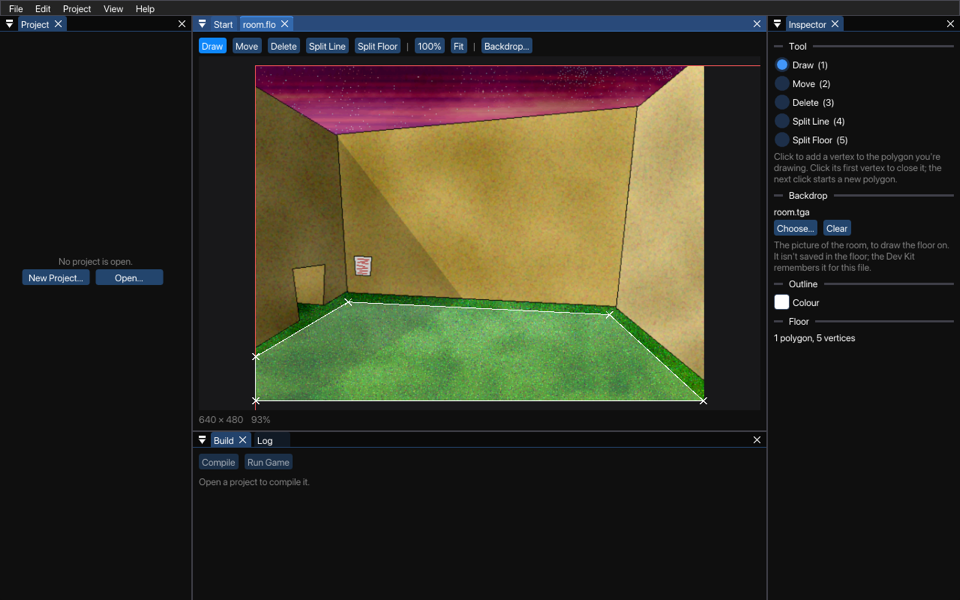
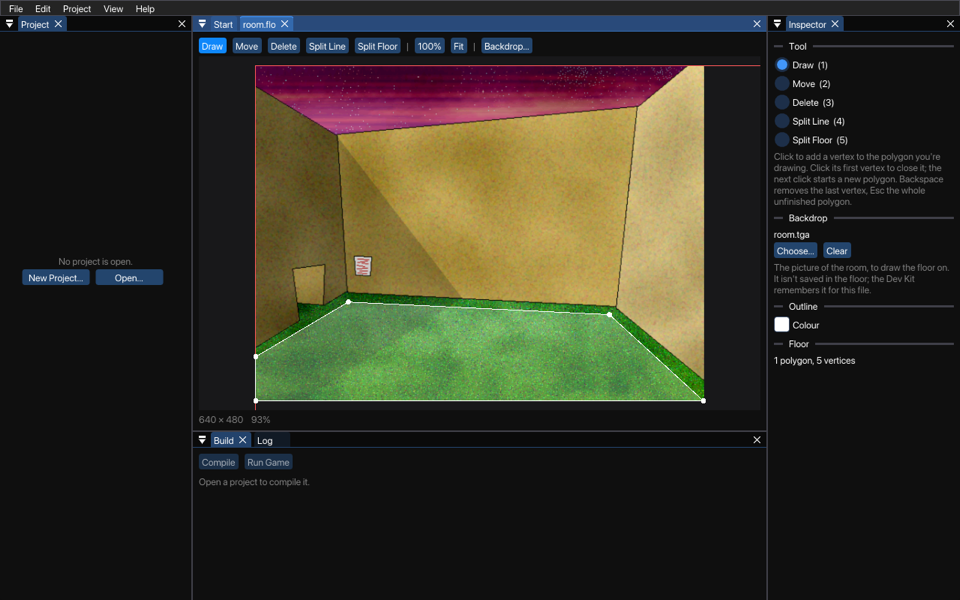
Mark the floor's vertices with circles, and let Backspace and Esc undo drawing
- Vertices are small filled circles in the outline colour, in place of
  crosses. The first vertex of the polygon being drawn is an open circle,
  without the square that made it a star, and the last one has no
  diamond. The circles keep their size in the window at every zoom.
- The vertex under the cursor gets a larger filled circle in the outline
  colour, as wide as the snap distance, in place of the magenta square.
- The line to the cursor and the lines of the drag tools are red, as
  concave polygons are, in place of magenta.
- While drawing a polygon, Backspace takes back its last vertex (and
  repeats), and Esc throws the unfinished polygon away. Both are
  commands that undo.
- The help and the Draw tool's hint describe the keys; the help's
  picture of the floor editor is new. The view test's references are
  new, and the floor input test presses both keys.

Changed region(s): [[0.7812, 0.27, 1.0, 0.63]]

diff --git a/doc/SLUDGEDevKitHelp/About_the_SLUDGE_Floor_Maker.html b/doc/SLUDGEDevKitHelp/About_the_SLUDGE_Floor_Maker.html
@@ -42,6 +42,8 @@ Now, start putting the floor onto the screen. The boundary of a floor is made up
 (vertices, as they're called in the program). Choose the <b>Draw</b> tool and click where you want to add a vertex.
 A line from the last vertex follows the mouse. When you're done, click the first vertex again to complete the
 walkable area. Clicking near a vertex takes that vertex, so that polygons can share their vertices exactly.
+While you draw, <b>Backspace</b> removes the last vertex you added, so that you carry on from the one before it,
+and <b>Esc</b> throws away the polygon you haven't completed yet. Both can be undone.
 </P>
 
 <P>
@@ -67,7 +69,8 @@ Choose a tool in the toolbar, in the Inspector, or with the keys 1 to 5.
 <ul>
 <li><b>Draw</b> (1): already discussed above. If you want to add a section of floor outside of what's already been
 defined, click again after completing a polygon, which starts a new one. If you want to create a floor plan with
-holes (for example, so that characters can walk around both sides of pillars) you must use this method.</li>
+holes (for example, so that characters can walk around both sides of pillars) you must use this method.
+Backspace removes the last vertex of the polygon you're drawing, and Esc removes all of it.</li>
 <li><b>Move</b> (2): drag a vertex to move it to a new location, in every polygon that has it. Vertices can even be
 dragged onto other, already existing vertices.</li>
 <li><b>Delete</b> (3): click a vertex and it will be removed. (Once a polygon has too few vertices it is

diff --git a/source/DevKit/GraphicalTools/floormaker.cpp b/source/DevKit/GraphicalTools/floormaker.cpp
@@ -7,6 +7,7 @@
  *
  */
 
+#include <math.h>
 #include <stdio.h>
 #include <stdlib.h>
 #include <vector>
@@ -512,13 +513,41 @@ bool loadFloorFromFile (const char * name, struct polyList **firstPoly) {
 	return true;
 }
 
-void drawFloor (Draw2D & draw, struct polyList * floor, float r, float g, float b) {
+// A circle of the given radius around (x, y), filled or as an outline.
+static void drawCircle (Draw2D & draw, float x, float y, float radius, bool filled) {
+	const int SEGMENTS = 20;
+	float points[SEGMENTS * 2];
+	for (int i = 0; i < SEGMENTS; i ++) {
+		float angle = (float) i * 6.2831853f / SEGMENTS;
+		points[i * 2] = x + radius * cosf (angle);
+		points[i * 2 + 1] = y + radius * sinf (angle);
+	}
+	if (filled) draw.drawPolygon (points, SEGMENTS);
+	else draw.drawLineLoop (points, SEGMENTS);
+}
+
+// The radii, in points of the window, of the dot on a vertex and of the
+// circle on the vertex under the cursor.
+static const float VERTEX_POINTS = 3.5f;
+static const float LIT_POINTS = 7.0f;
+
+void drawFloor (Draw2D & draw, struct polyList * floor, float r, float g, float b, float pointPixels) {
 	struct polyList * pL = floor;
 	
 	struct vertexList * vL;
-	struct vertexList * drawnVertices = NULL;
+	std::vector<vertexList> drawnVertices;
 	
 	if (! floor) return;
+
+	// The first vertex of the polygon that we draw in, while it isn't
+	// complete, is an open circle; we don't draw a dot on it.
+	vertexList * start = NULL;
+	if (floor -> firstVertex && ! polyIsComplete (floor)) {
+		start = floor -> firstVertex;
+		while (start -> next) start = start -> next;
+		drawnVertices.push_back (*start);
+	}
+	float radius = VERTEX_POINTS * pointPixels;
 	
 	while (pL) {
 		std::vector<float> points;
@@ -534,65 +563,27 @@ void drawFloor (Draw2D & draw, struct polyList * floor, float r, float g, float 
 		draw.drawPolygon(points.data(), points.size() / 2);
 			
 		draw.setDrawingColour(r, g, b, 1.0);
-		vL = pL -> firstVertex;
-		while (vL) {
-			
+		for (vL = pL -> firstVertex; vL; vL = vL -> next) {
 			// Draw the line from here to the next point
 			if (vL -> next) {
 				const float line[] = { (float) vL -> x, (float) vL -> y, (float) vL -> next -> x, (float) vL -> next -> y };
 				draw.drawLines(line, 2);
 			}
-			// Do we want to draw crosses at the corners?
-			 
-			if (1 /*markVertices*/) {
-				vertexList * newV = drawnVertices;
-				 
-				while (newV) {
-					if (newV -> x == vL -> x && newV -> y == vL -> y) break;
-					newV = newV -> next;
-				}
-				 
-				// We haven't drawn this cross already
-				if (! newV) {
-					 
-					// Remember we've drawn it					 
-					newV = new vertexList;
-					if (newV) {
-						newV -> next = drawnVertices;
-						drawnVertices = newV;
-						newV -> x = vL -> x;
-						newV -> y = vL -> y;
-					}
-					 
-					// Draw it
-					const float cross[] = {
-						(float) vL -> x - 5, (float) vL -> y - 5, (float) vL -> x + 5, (float) vL -> y + 5,
-						(float) vL -> x + 5, (float) vL -> y - 5, (float) vL -> x - 5, (float) vL -> y + 5
-					};
-					draw.drawLines(cross, 4);
-				}
+			// A dot on each vertex, once.
+			bool drawn = false;
+			for (size_t i = 0; i < drawnVertices.size () && ! drawn; i ++) {
+				drawn = drawnVertices[i].x == vL -> x && drawnVertices[i].y == vL -> y;
 			}
-			vL = vL -> next;
+			if (! drawn) {
+				drawnVertices.push_back (*vL);
+				drawCircle (draw, vL -> x, vL -> y, radius, true);
+			}
 		}
 		pL = pL -> next;
 	}
-	vL = floor -> firstVertex;
-	if (! polyIsComplete (floor) && vL) {
-		float xx = vL -> x;
-		float yy = vL -> y;
-		const float square[] = { xx-5, yy-5, xx+5, yy-5, xx+5, yy+5, xx-5, yy+5 };
-		draw.drawPolygon(square, 4);
-		
-		while (vL -> next) vL = vL -> next;
-		xx = vL -> x;
-		yy = vL -> y;
-		const float diamond[] = { xx-7, yy, xx, yy-7, xx+7, yy, xx, yy+7 };
-		draw.drawPolygon(diamond, 4);
-	}
-	while (drawnVertices) {
-		struct vertexList * k = drawnVertices;
-		drawnVertices = drawnVertices -> next;
-		delete k;
+	if (start) {
+		draw.setDrawingColour(r, g, b, 1.0);
+		drawCircle (draw, start -> x, start -> y, radius, false);
 	}
 }
 
@@ -696,18 +687,14 @@ void drawFloorMakerView (Draw2D & draw, const struct floorMakerView * view) {
 	draw.drawLines(axes, 4);
 
 	if (view->lit) {
-		draw.setDrawingColour(1.0f, 0.00f, 1.00f, 1.0f);
-		const float square[] = {
-			(float) view->litX-8, (float) view->litY-8, (float) view->litX+8, (float) view->litY-8,
-			(float) view->litX+8, (float) view->litY+8, (float) view->litX-8, (float) view->litY+8
-		};
-		draw.drawPolygon(square, 4);
+		draw.setDrawingColour(view->r, view->g, view->b, 1.0f);
+		drawCircle (draw, view->litX, view->litY, LIT_POINTS * view->pointPixels, true);
 	}
 
-	drawFloor(draw, view->floor, view->r, view->g, view->b);
+	drawFloor(draw, view->floor, view->r, view->g, view->b, view->pointPixels);
 
 	if (view->selecting) {
-		draw.setDrawingColour(1.0f, 0.00f, 1.00f, 1.0f);
+		draw.setDrawingColour(1.0f, 0.00f, 0.00f, 1.0f);
 		const float line[] = { (float) view->selx1, (float) view->sely1, (float) view->selx2, (float) view->sely2 };
 		draw.drawLines(line, 2);
 	}

diff --git a/source/DevKit/App/FloorView.cpp b/source/DevKit/App/FloorView.cpp
@@ -36,7 +36,7 @@ struct ToolInfo {
 
 static const ToolInfo tools[FloorView::TOOL_COUNT] = {
 	{ "Draw", ImGuiKey_1, "Click to add a vertex to the polygon you're drawing. Click its first vertex to close it; "
-		"the next click starts a new polygon." },
+		"the next click starts a new polygon. Backspace removes the last vertex, Esc the whole unfinished polygon." },
 	{ "Move", ImGuiKey_2, "Drag a vertex to move it, in every polygon that has it." },
 	{ "Delete", ImGuiKey_3, "Click a vertex to delete it." },
 	{ "Split Line", ImGuiKey_4, "Drag from one end of a line to the other to add a vertex in its middle." },
@@ -196,7 +196,14 @@ void FloorView::handleMouse () {
 	litX = sx;
 	litY = sy;
 
-	if (dragging && ImGui::IsKeyPressed (ImGuiKey_Escape)) dragging = false;
+	if (dragging && ImGui::IsKeyPressed (ImGuiKey_Escape)) {
+		dragging = false;
+	} else if (tool == TOOL_DRAW && floor->drawing () && ! ImGui::GetIO ().WantTextInput) {
+		// While we draw a polygon, Backspace takes back its last vertex and
+		// Esc all of it.
+		if (ImGui::Shortcut (ImGuiKey_Backspace, ImGuiInputFlags_Repeat)) floor->removeLastVertex ();
+		else if (ImGui::Shortcut (ImGuiKey_Escape)) floor->cancelDrawing ();
+	}
 
 	if (canvas.pressed ()) {
 		switch (tool) {
@@ -270,6 +277,7 @@ void FloorView::paint (Draw2D & draw) {
 	view.lit = lit;
 	view.litX = litX;
 	view.litY = litY;
+	view.pointPixels = canvas.pixelsOfPoints (1.0f);
 	// The line of a drag, or from the last vertex to the cursor while we
 	// draw a polygon.
 	view.selecting = false;

diff --git a/tests/devkit/core_test.cpp b/tests/devkit/core_test.cpp
@@ -647,6 +647,32 @@ static void testFloors () {
 	CHECK (floor.floor ().polygons.size () == polygons + 1);
 	CHECK (floor.commands ().undoLabel () == "Split Floor");
 
+	// While we draw a polygon, Backspace takes back its last vertex and Esc
+	// the whole polygon, each as a command; neither touches a complete one.
+	CHECK (! floor.removeLastVertex ());
+	CHECK (! floor.cancelDrawing ());
+	Floor complete = floor.floor ();
+	floor.addVertex (300, 300);
+	floor.addVertex (400, 300);
+	floor.addVertex (400, 400);
+	CHECK (floor.removeLastVertex ());
+	CHECK (floor.floor ().polygons[0].size () == 2);
+	CHECK (floor.floor ().polygons[0][0] == FloorPoint (400, 300));
+	CHECK (floor.drawing ());
+	CHECK (floor.commands ().undoLabel () == "Remove Vertex");
+	CHECK (floor.cancelDrawing ());
+	CHECK (floor.floor ().polygons[0].empty ());
+	CHECK (! floor.drawing ());
+	CHECK (floor.floor ().polygons.size () == complete.polygons.size () + 1);
+	CHECK (floor.floor ().vertexCount () == complete.vertexCount ());
+	floor.commands ().undo ();
+	CHECK (floor.floor ().polygons[0].size () == 2);
+	floor.commands ().redo ();
+	// Taking back the only vertex leaves nothing drawn.
+	floor.addVertex (300, 300);
+	CHECK (floor.removeLastVertex ());
+	CHECK (! floor.drawing ());
+
 	// Undo takes it all back to an empty floor, and redo brings it again.
 	Floor drawn = floor.floor ();
 	while (floor.commands ().canUndo ()) floor.commands ().undo ();

diff --git a/source/DevKit/GraphicalTools/floormaker.h b/source/DevKit/GraphicalTools/floormaker.h
@@ -45,13 +45,17 @@ struct polyList * addPoly (struct polyList *firstPoly);
 void splitPoly (int x1, int y1, int x2, int y2, struct polyList **firstPoly);
 void splitLine (int x1, int y1, int x2, int y2, struct polyList *firstPoly);
 
-void drawFloor (Draw2D & draw, struct polyList * pL, float r, float g, float b);
+// Draw a floor in the colour r, g, b, with a dot on each vertex that is
+// pointPixels pixels of the picture for each point of the window across.
+void drawFloor (Draw2D & draw, struct polyList * pL, float r, float g, float b, float pointPixels);
 
 struct spriteBank;
 
 // In the floor maker view, we draw the backdrop, the floor in the colour
-// r, g, b, a square on the vertex at (litX, litY) when lit is set, and the
-// line from (selx1, sely1) to (selx2, sely2) when selecting is set.
+// r, g, b, a larger circle on the vertex at (litX, litY) when lit is set,
+// and the line from (selx1, sely1) to (selx2, sely2) in red when selecting
+// is set. The dots and circles keep their size in the window: a point of
+// it is pointPixels pixels of the picture.
 struct floorMakerView {
 	struct spriteBank * backdrop;
 	struct polyList * floor;
@@ -60,6 +64,7 @@ struct floorMakerView {
 	int litX, litY;
 	bool selecting;
 	int selx1, sely1, selx2, sely2;
+	float pointPixels;
 };
 
 void drawFloorMakerView (Draw2D & draw, const struct floorMakerView * view);

diff --git a/source/DevKit/Core/FloorDocument.cpp b/source/DevKit/Core/FloorDocument.cpp
@@ -151,6 +151,22 @@ FloorDocument::AddResult FloorDocument::addVertex (int x, int y) {
 	return result;
 }
 
+bool FloorDocument::removeLastVertex () {
+	if (! drawing ()) return false;
+	Floor changed = theFloor;
+	changed.polygons[0].erase (changed.polygons[0].begin ());
+	setFloor (changed, "Remove Vertex");
+	return true;
+}
+
+bool FloorDocument::cancelDrawing () {
+	if (! drawing ()) return false;
+	Floor changed = theFloor;
+	changed.polygons[0].clear ();
+	setFloor (changed, "Cancel Polygon");
+	return true;
+}
+
 bool FloorDocument::moveVertex (int x1, int y1, int x2, int y2) {
 	return change ("Move Vertex", [x1, y1, x2, y2] (polyList ** list) {
 		moveVertices (x1, y1, x2, y2, *list);

diff --git a/source/DevKit/Core/FloorDocument.h b/source/DevKit/Core/FloorDocument.h
@@ -80,6 +80,10 @@ public:
 	// places can't take it.
 	bool moveVertex (int x1, int y1, int x2, int y2);
 	bool deleteVertex (int x, int y);
+	// While we draw a polygon: take away its last vertex, so that the one
+	// before it is the last again, or take away the whole polygon.
+	bool removeLastVertex ();
+	bool cancelDrawing ();
 	// Add a vertex in the middle of the edge between two vertices.
 	bool splitLine (int x1, int y1, int x2, int y2);
 	// Split the polygon that has both vertices in two, along the line

diff --git a/tests/devkit/view_test.cpp b/tests/devkit/view_test.cpp
@@ -265,7 +265,8 @@ static void testFloorMaker () {
 	struct floorMakerView fmv = {
 		&backdrop, floor, 1.0f, 1.0f, 1.0f,
 		true, 300, 260,
-		true, 60, 300, 420, 420
+		true, 60, 300, 420, 420,
+		2.0f
 	};
 
 	View v = startView (320, 240);
@@ -275,6 +276,7 @@ static void testFloorMaker () {
 
 	draw->setViewArea (200, -200, v.width, v.height, 1.0f);
 	fmv.r = 0.4f;
+	fmv.pointPixels = 1.0f;
 	drawFloorMakerView (*draw, &fmv);
 	check ("floormaker-scrolled", v);
 	endView (v);
